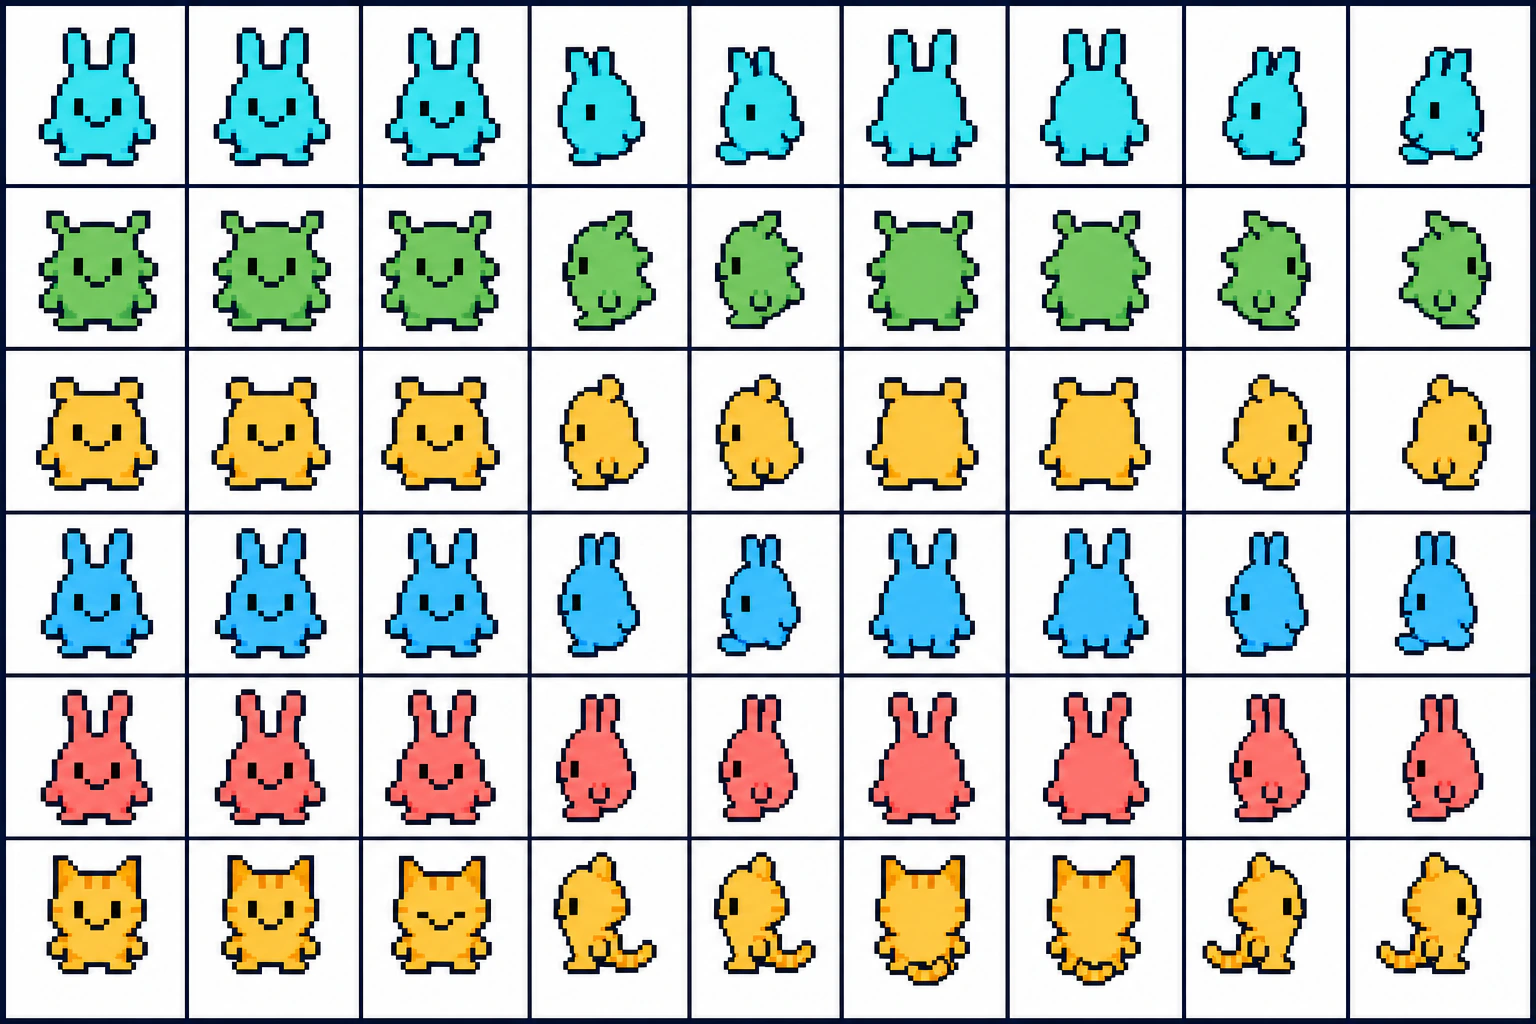
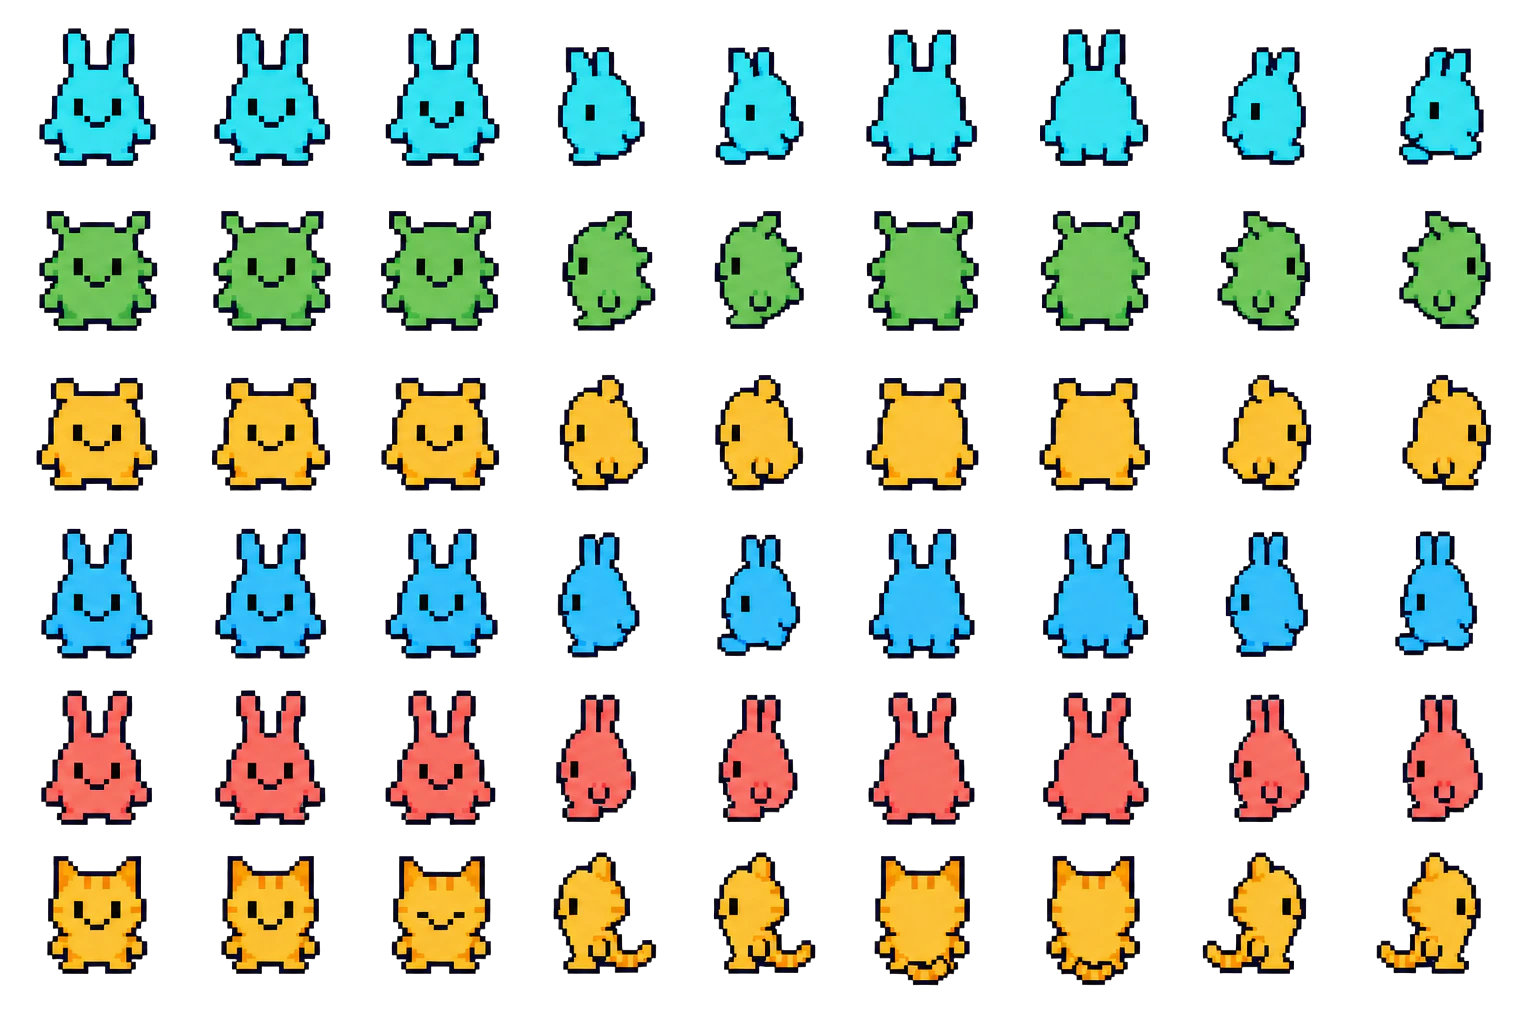
fix: make character sprite backgrounds transparent

diff --git a/apps/web/src/styles.css b/apps/web/src/styles.css
@@ -132,7 +132,7 @@ button:focus-visible, input:focus-visible, textarea:focus-visible, select:focus-
 .page-title-row { display: flex; align-items: flex-end; justify-content: space-between; gap: 14px; margin-bottom: 10px; }
 .page-title-row h1, .placeholder-page h1 { margin: 0; font: 900 clamp(20px, 2.1vw, 28px)/1.05 "Arial Black", sans-serif; letter-spacing: -0.055em; }
 
-.character-portrait { --sprite-x: 0%; display: block; overflow: hidden; background-color: #f8f5ed; background-image: url("/characters/hermes-office-character-atlas-v4.webp"); background-repeat: no-repeat; background-size: 900% 600%; background-position: var(--sprite-x) var(--sprite-y, 0%); }
+.character-portrait { --sprite-x: 0%; display: block; overflow: hidden; background-color: transparent; background-image: url("/characters/hermes-office-character-atlas-v4.webp"); background-repeat: no-repeat; background-size: 900% 600%; background-position: var(--sprite-x) var(--sprite-y, 0%); }
 .character-portrait:not([data-character-index="custom"]) { image-rendering: pixelated; filter: hue-rotate(var(--avatar-hue, 0deg)); }
 .character-portrait--panel::after { content: ""; position: absolute; inset: 0; border: 1px solid rgba(255,255,255,.08); background: linear-gradient(145deg, rgba(255,255,255,.09), transparent 38%, rgba(5,10,18,.06)); pointer-events: none; }
 